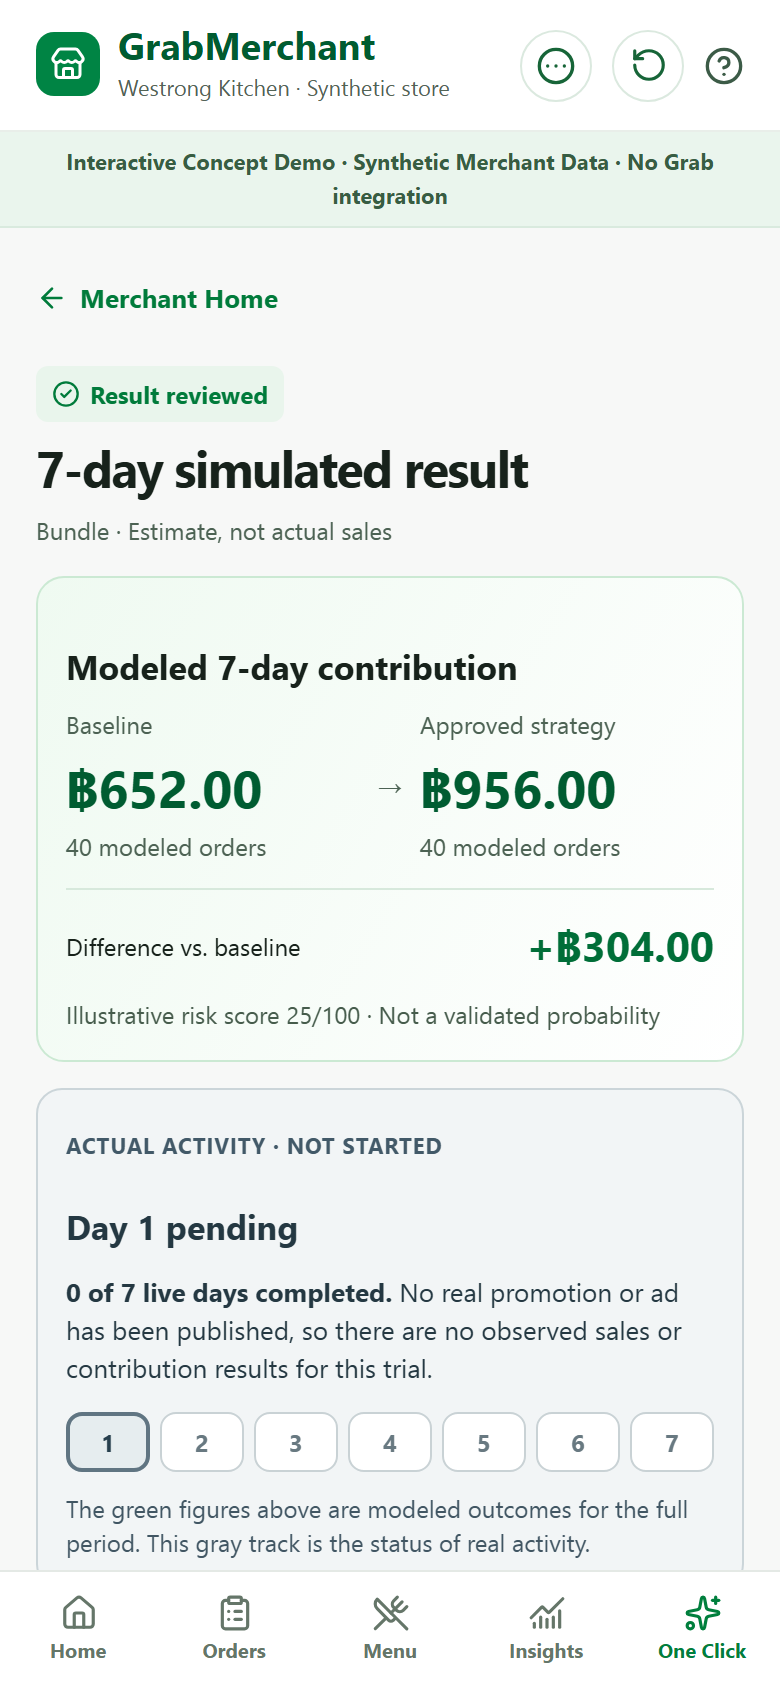
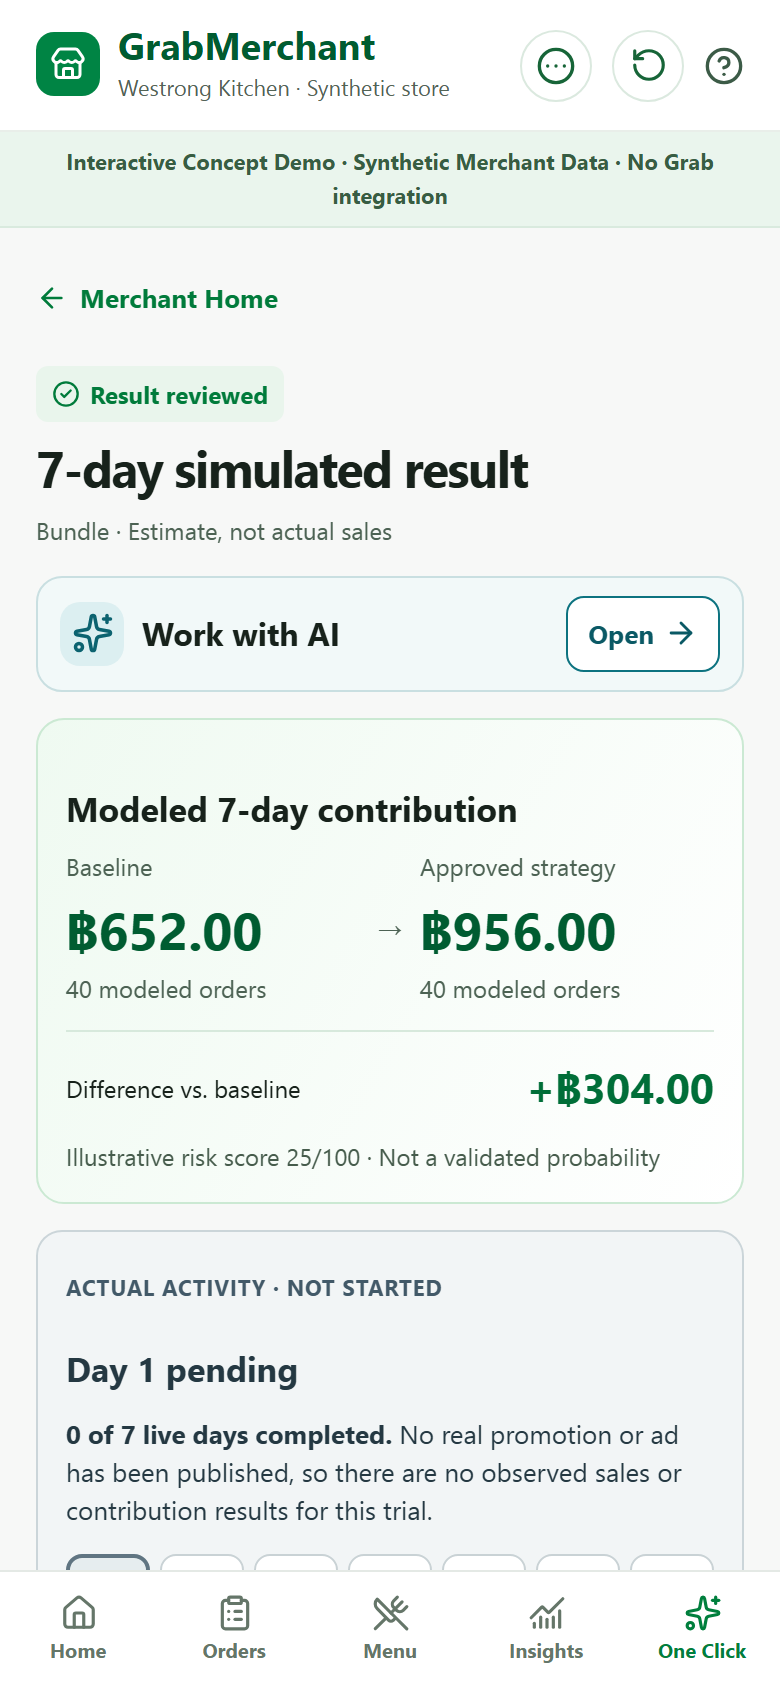
Compact mission AI entry and fit chat to viewport

diff --git a/frontend/components/judge-demo.tsx b/frontend/components/judge-demo.tsx
@@ -95,7 +95,7 @@ export function JudgeDemo() {
 
         {state.view === "details" && <JudgeStrategyDetail item={detail} onBack={() => go("recommendation")} />}
 
-        {state.view === "results" && approved && state.c1.resultReady && <div className="judge-page oneclick-results"><Back onClick={() => go("c1-home")} label="Merchant Home" /><span className="review-badge"><CheckCircle2 size={14} /> {state.c1.reviewed ? "Result reviewed" : "Simulated result ready"}</span><h1>7-day simulated result</h1><p className="subtle">{strategyNames[approved.strategy_id]} · Estimate, not actual sales</p><section className="results-hero"><h2>Modeled 7-day contribution</h2><div className="results-totals"><div><span>Baseline</span><strong>{baht(evaluation.baseline.estimated_7d_contribution)}</strong><small>{evaluation.baseline.estimated_units} modeled orders</small></div><span aria-hidden="true">→</span><div><span>Approved strategy</span><strong>{baht(approved.estimated_7d_contribution)}</strong><small>{approved.estimated_units} modeled orders</small></div></div><div className="results-difference"><span>Difference vs. baseline</span><strong className={`impact-${impactTone(approved.estimated_difference)}`}>{baht(approved.estimated_difference, true)}</strong></div><p>Illustrative risk score {approved.risk_score}/100 · Not a validated probability</p></section><ActualProgress days={7} /><AgentEntry onOpen={() => go("agent")} /><section className="results-card"><h2>What the simulation suggests</h2><p className="results-takeaway">{strategyNames[approved.strategy_id]} models a {baht(approved.estimated_difference, true)} contribution difference over 7 days.</p><p>Modeled orders: {evaluation.baseline.estimated_units} baseline → {approved.estimated_units} with the selected strategy. Customer demand and displaced sales have not been observed.</p><p>Check real costs and demand before any live action. No campaign or promotion was created.</p></section><details className="assumptions-details results-assumptions"><summary>Model assumptions</summary><p>{evaluation.provenance}</p><p>Discount demand lift {Number(evaluation.assumptions.discount_demand_lift) * 100}% and {evaluation.assumptions.advertising_incremental_orders} advertising orders are synthetic assumptions, not validated forecasts.</p></details>{!state.c1.reviewed ? <button type="button" className="primary-button" onClick={() => update(old => ({ ...old, c1: { ...old.c1, reviewed: true } }))}>Mark result as reviewed <Check size={17} /></button> : <div className="reviewed-state"><CheckCircle2 size={18} /> Result review saved</div>}<button type="button" className="judge-text-button" onClick={() => go("home")}>Return to Merchant Home</button></div>}
+        {state.view === "results" && approved && state.c1.resultReady && <div className="judge-page oneclick-results"><Back onClick={() => go("c1-home")} label="Merchant Home" /><span className="review-badge"><CheckCircle2 size={14} /> {state.c1.reviewed ? "Result reviewed" : "Simulated result ready"}</span><h1>7-day simulated result</h1><p className="subtle">{strategyNames[approved.strategy_id]} · Estimate, not actual sales</p><AgentEntry onOpen={() => go("agent")} /><section className="results-hero"><h2>Modeled 7-day contribution</h2><div className="results-totals"><div><span>Baseline</span><strong>{baht(evaluation.baseline.estimated_7d_contribution)}</strong><small>{evaluation.baseline.estimated_units} modeled orders</small></div><span aria-hidden="true">→</span><div><span>Approved strategy</span><strong>{baht(approved.estimated_7d_contribution)}</strong><small>{approved.estimated_units} modeled orders</small></div></div><div className="results-difference"><span>Difference vs. baseline</span><strong className={`impact-${impactTone(approved.estimated_difference)}`}>{baht(approved.estimated_difference, true)}</strong></div><p>Illustrative risk score {approved.risk_score}/100 · Not a validated probability</p></section><ActualProgress days={7} /><section className="results-card"><h2>What the simulation suggests</h2><p className="results-takeaway">{strategyNames[approved.strategy_id]} models a {baht(approved.estimated_difference, true)} contribution difference over 7 days.</p><p>Modeled orders: {evaluation.baseline.estimated_units} baseline → {approved.estimated_units} with the selected strategy. Customer demand and displaced sales have not been observed.</p><p>Check real costs and demand before any live action. No campaign or promotion was created.</p></section><details className="assumptions-details results-assumptions"><summary>Model assumptions</summary><p>{evaluation.provenance}</p><p>Discount demand lift {Number(evaluation.assumptions.discount_demand_lift) * 100}% and {evaluation.assumptions.advertising_incremental_orders} advertising orders are synthetic assumptions, not validated forecasts.</p></details>{!state.c1.reviewed ? <button type="button" className="primary-button" onClick={() => update(old => ({ ...old, c1: { ...old.c1, reviewed: true } }))}>Mark result as reviewed <Check size={17} /></button> : <div className="reviewed-state"><CheckCircle2 size={18} /> Result review saved</div>}<button type="button" className="judge-text-button" onClick={() => go("home")}>Return to Merchant Home</button></div>}
         {state.view === "agent" && approved && <MissionAgentChat facts={{ strategy: strategyNames[approved.strategy_id], contribution: baht(approved.estimated_7d_contribution), difference: baht(approved.estimated_difference, true), risk: approved.risk_score, nextStep: "Check actual costs and demand before considering a live offer." }} onBack={() => go("results")} />}
 
         {state.view === "connections" && <div className="judge-page"><Back onClick={() => go("home")} label="Merchant Home" /><span className="judge-eyebrow">MERCHANT SETTINGS → AI CONNECTIONS</span><h1>AI Connections</h1><p className="judge-lead">Conceptually grant your preferred AI workspace access to selected read-only merchant capabilities.</p><div className="judge-status"><Link2 size={20} /><span><strong>{state.c2.status === "connected" ? "Connected — Simulated" : state.c2.status === "revoked" ? "Access Revoked" : state.c2.scopes.length ? "Permissions Selected" : "Not Connected"}</strong><small>No real AI provider linked</small></span></div><h2>Choose a simulated AI client</h2><div className="judge-client-options">{aiClients.map(client => <button type="button" key={client} className={state.c2.client === client ? "is-active" : ""} aria-pressed={state.c2.client === client} onClick={() => update(old => ({ ...old, c2: { ...old.c2, client, status: "not_connected", grantedScopes: [], asked: false, lastPrompt: "", draftReviewed: false } }))}><ClientIcon client={client} /><span className="judge-client-name">{client}</span><small>Concept option</small></button>)}</div><h2>Read-only permissions</h2><p className="judge-disclosure">Select each capability explicitly. Removing access applies immediately; new permissions need authorization.</p><div className="judge-scope-list">{scopeDefinitions.map(scope => <label key={scope.id}><input type="checkbox" checked={state.c2.scopes.includes(scope.id)} onChange={() => toggleScope(scope.id)} /><span><strong>{scope.name} — Read</strong><small>{scope.detail}</small></span></label>)}</div><button type="button" className="primary-button" disabled={!state.c2.client || state.c2.scopes.length === 0 || state.c2.status === "connected" && sameScopes(state.c2.scopes, state.c2.grantedScopes)} onClick={authorize}>{state.c2.status === "connected" ? "Update authorized permissions" : "Authorize simulated connection"} <ArrowRight size={17} /></button>{state.c2.status === "connected" && <><button type="button" className="secondary-button" onClick={() => go("workspace")}>Open simulated AI workspace <ArrowRight size={17} /></button><button type="button" className="judge-danger-button" onClick={revoke}>Revoke access now</button></>}<p className="judge-disclosure">This is a local browser demonstration. No OAuth, MCP, Grab API, or real ChatGPT/Claude session is used.</p></div>}

diff --git a/frontend/components/mission-tracking.tsx b/frontend/components/mission-tracking.tsx
@@ -45,16 +45,16 @@ export function MissionTracking({ initialMission, comparison, initialOutcome }: 
     catch (cause) { setError(cause instanceof Error ? cause.message : "Could not save the result review."); }
     finally { setBusy(false); }
   }
-  if (showAgent && result) return <div className="page-content tracking-page"><MissionAgentChat facts={{ strategy: result.selected_strategy_id ? strategyNames[result.selected_strategy_id] : "Approved", contribution: baht(result.trial.estimated_contribution), difference: baht(modeledDifference, true), risk: result.modeled_risk_score, nextStep: result.next_step_guidance }} onBack={() => setShowAgent(false)} /></div>;
+  if (showAgent && result) return <div className="page-content tracking-page mission-agent-page"><MissionAgentChat facts={{ strategy: result.selected_strategy_id ? strategyNames[result.selected_strategy_id] : "Approved", contribution: baht(result.trial.estimated_contribution), difference: baht(modeledDifference, true), risk: result.modeled_risk_score, nextStep: result.next_step_guidance }} onBack={() => setShowAgent(false)} /></div>;
   return <div className="page-content tracking-page oneclick-results">
     <Link href="/ai" className="back-link"><ArrowLeft size={16} /> One Click</Link>
     {result ? <>
       <span className="review-badge"><CheckCircle2 size={13} /> {mission.status === "reviewed" ? "Result reviewed" : "Simulated result ready"}</span>
       <h1>{mission.trial_days}-day simulated result</h1>
       <p className="subtle">{result.selected_strategy_id ? strategyNames[result.selected_strategy_id] : "Bundle"} strategy · Estimate, not actual sales</p>
+      <AgentEntry onOpen={() => setShowAgent(true)} />
       <section className="results-hero"><h2>Modeled 7-day contribution</h2><div className="results-totals"><div><span>Baseline</span><strong>{baht(result.baseline.estimated_contribution)}</strong><small>{result.baseline.units} modeled orders</small></div><span aria-hidden="true">→</span><div><span>Approved strategy</span><strong>{baht(result.trial.estimated_contribution)}</strong><small>{result.trial.units} modeled orders</small></div></div><div className="results-comparison-bars" aria-label="Modeled contribution comparison using the same scale"><div><span>Baseline</span><i><b style={{ width: `${Math.max(0, Number(result.baseline.estimated_contribution)) / barMaximum * 100}%` }} /></i></div><div><span>Strategy</span><i><b style={{ width: `${Math.max(0, Number(result.trial.estimated_contribution)) / barMaximum * 100}%` }} /></i></div></div><div className="results-difference"><span>Difference vs. baseline</span><strong>{baht(result.baseline_estimated_difference ?? comparison.contribution_difference, true)}</strong></div>{result.modeled_risk_score !== null && <p>Illustrative risk score {result.modeled_risk_score}/100 · Not a validated probability</p>}</section>
       <ActualProgress days={mission.trial_days} />
-      <AgentEntry onOpen={() => setShowAgent(true)} />
       <section className="results-card"><h2>What the simulation suggests</h2><p className="results-takeaway">In this simulation, {resultStrategyName}&apos;s modeled 7-day contribution differs from baseline by <strong className="results-takeaway-amount">{baht(modeledDifference, true)}</strong>.</p><p>{result.learning_summary}</p><p>Modeled order count {volumeDifference > 0 ? "increased by" : volumeDifference < 0 ? "decreased by" : "changed by"} {Math.abs(volumeDifference)} versus baseline under the approved volume and cost assumptions.</p><p>Actual outcomes remain uncertain because customer demand, costs, and displaced sales have not been observed.</p><h3>Before any real action</h3><p>{result.next_step_guidance}</p></section>
       <details className="assumptions-details results-assumptions"><summary>Assumptions and result details</summary><div className="assumptions-body"><p>Approved model: {result.simulation_version} · Scenario revision {mission.approved_revision}</p>{result.model_assumptions && Object.entries(result.model_assumptions).map(([key, value]) => <p key={key}>{assumptionNames[key] ?? key}: {String(value)}</p>)}<p>Baseline GMV {baht(result.baseline.gmv)} · Strategy GMV {baht(result.trial.gmv)}</p><p>This result is generated immediately from assumptions. No real seven-day period has passed, and no promotion or ad was published.</p></div></details>
       <p className="fine-print">Contribution is not net profit. Actual results depend on demand, costs, and displaced sales.</p>

diff --git a/frontend/app/strategy.css b/frontend/app/strategy.css
@@ -232,22 +232,22 @@
 .actual-day-track { display:grid; grid-template-columns:repeat(7,minmax(0,1fr)); gap:5px; margin:13px 0 0; padding:0; list-style:none; }
 .actual-day-track li { display:grid; place-items:center; min-width:0; min-height:30px; border:1px solid #c9d2d5; border-radius:8px; background:#fff; color:#687981; font-size:12px; font-weight:800; }
 .actual-day-track li.is-pending { border:2px solid #607582; color:#263f4d; background:#e6edef; }
-.mission-agent-entry { display:grid; grid-template-columns:34px minmax(0,1fr); gap:9px; margin-top:13px; padding:14px; border:1px solid #c9dfe1; border-radius:13px; background:#f2f9f9; }
+.mission-agent-entry { display:grid; grid-template-columns:32px minmax(0,1fr) auto; align-items:center; gap:9px; margin:10px 0 13px; padding:9px 11px; border:1px solid #c9dfe1; border-radius:13px; background:#f2f9f9; }
 .mission-agent-mark { display:grid; place-items:center; width:32px; height:32px; border-radius:10px; color:#0c6370; background:#dceff1; }
-.mission-agent-entry h2 { margin:0 0 5px; font-size:17px; font-weight:800; }
-.mission-agent-entry p { margin:0; color:#36555a; font-size:13px; line-height:1.4; }
-.mission-agent-entry small { display:block; margin-top:6px; color:#45616a; font-size:12px; }
-.mission-agent-entry button { grid-column:1/-1; display:flex; align-items:center; justify-content:space-between; min-height:43px; padding:0 11px; border:1px solid #0d7380; border-radius:9px; background:#fff; color:#0a5965; font-size:13px; font-weight:800; cursor:pointer; }
-.mission-agent-chat { padding:18px; }
+.mission-agent-entry h2,.judge-page .mission-agent-entry h2 { margin:0; font-size:16px; font-weight:800; }
+.mission-agent-entry button { display:flex; align-items:center; justify-content:center; gap:5px; min-height:38px; padding:0 10px; border:1px solid #0d7380; border-radius:9px; background:#fff; color:#0a5965; font-size:13px; font-weight:800; cursor:pointer; }
+.mission-agent-page { display:flex; flex-direction:column; height:100%; min-height:0; padding:0; }
+.mission-agent-chat { box-sizing:border-box; display:flex; flex-direction:column; flex:1 1 auto; min-height:0; height:100%; padding:14px 18px 12px; }
 .mission-agent-back { min-height:40px; padding:0; border:0; background:none; color:#096b37; font-size:13px; font-weight:800; cursor:pointer; }
-.mission-agent-kicker { display:flex; align-items:center; gap:6px; margin-top:14px; color:#0c6370; font-size:12px; font-weight:800; }
+.mission-agent-kicker { display:flex; align-items:center; gap:6px; margin-top:8px; color:#0c6370; font-size:12px; font-weight:800; }
 .mission-agent-chat h1 { margin:8px 0; font-size:23px; }
 .mission-agent-disclosure { margin:0; color:#49616a; font-size:12px; line-height:1.45; }
-.mission-agent-messages { display:grid; align-content:start; gap:10px; min-height:190px; margin:17px 0; }
+.mission-agent-messages { display:flex; align-items:flex-start; flex-direction:column; flex:1 1 auto; gap:10px; min-height:0; overflow-y:auto; margin:12px 0; scrollbar-width:thin; }
 .mission-agent-message { max-width:94%; padding:11px 12px; border-radius:12px; background:#e8f5f0; font-size:13px; line-height:1.45; }
-.mission-agent-message.is-merchant { justify-self:end; background:#e5edf5; }
+.mission-agent-message.is-merchant { align-self:flex-end; background:#e5edf5; }
 .mission-agent-message strong { font-size:12px; }
 .mission-agent-message p { margin:4px 0 0; }
+.mission-agent-composer { flex:0 0 auto; padding-top:8px; border-top:1px solid #e0e9e4; }
 .mission-agent-composer label { display:block; margin-bottom:7px; font-size:12px; font-weight:750; }
 .mission-agent-composer > div { display:flex; gap:6px; }
 .mission-agent-composer input { flex:1 1 auto; min-width:0; min-height:44px; padding:9px; border:1px solid #b7c9c1; border-radius:9px; font:inherit; font-size:13px; }

diff --git a/frontend/components/mission-follow-up.tsx b/frontend/components/mission-follow-up.tsx
@@ -1,6 +1,6 @@
 "use client";
 
-import { useState, type FormEvent } from "react";
+import { useEffect, useRef, useState, type FormEvent } from "react";
 import { ArrowRight, Send, Sparkles } from "lucide-react";
 
 type AgentFacts = {
@@ -24,16 +24,18 @@ export function ActualProgress({ days }: { days: number }) {
 export function AgentEntry({ onOpen }: { onOpen: () => void }) {
   return <section className="mission-agent-entry" aria-labelledby="mission-agent-entry-title">
     <span className="mission-agent-mark"><Sparkles size={21} /></span>
-    <div><h2 id="mission-agent-entry-title">Ask MAI about this mission</h2><p>Review the approved assumptions, modeled result, and next steps in an in-app demo chat.</p><small>Simulated agent · No live campaign data</small></div>
-    <button type="button" onClick={onOpen}>Open mission chat <ArrowRight size={17} /></button>
+    <h2 id="mission-agent-entry-title">Work with AI</h2>
+    <button type="button" onClick={onOpen} aria-label="Open mission chat">Open <ArrowRight size={17} /></button>
   </section>;
 }
 
 export function MissionAgentChat({ facts, onBack }: { facts: AgentFacts; onBack: () => void }) {
   const [draft, setDraft] = useState("");
+  const messagesRef = useRef<HTMLDivElement>(null);
   const [messages, setMessages] = useState<{ role: "merchant" | "agent"; text: string }[]>([
     { role: "agent", text: `I can help you review the approved ${facts.strategy} simulation. Its modeled 7-day contribution is ${facts.contribution}, a ${facts.difference} difference from baseline. No real trial has started.` },
   ]);
+  useEffect(() => { messagesRef.current?.scrollTo({ top: messagesRef.current.scrollHeight }); }, [messages.length]);
   function reply(prompt: string) {
     const question = prompt.toLowerCase();
     if (/actual|live|day|started|real|progress|status/.test(question)) return "Actual activity is at Day 1 pending: 0 live days completed. No real promotion or ad has been published, and there are no observed trial results.";
@@ -52,8 +54,8 @@ export function MissionAgentChat({ facts, onBack }: { facts: AgentFacts; onBack:
     <button type="button" className="mission-agent-back" onClick={onBack}>← Simulated result</button>
     <span className="mission-agent-kicker"><Sparkles size={16} /> MAI · IN-APP DEMO AGENT</span>
     <h1 id="mission-agent-title">{facts.strategy} mission chat</h1>
-    <p className="mission-agent-disclosure">Scripted prototype replies grounded in this mission&apos;s approved modeled result. No live AI service or real campaign data is connected.</p>
-    <div className="mission-agent-messages" aria-live="polite">{messages.map((message, index) => <div key={index} className={`mission-agent-message is-${message.role}`}><strong>{message.role === "agent" ? "MAI" : "You"}</strong><p>{message.text}</p></div>)}</div>
+    <p className="mission-agent-disclosure">Demo chat · No live AI or campaign data.</p>
+    <div ref={messagesRef} className="mission-agent-messages" aria-live="polite">{messages.map((message, index) => <div key={index} className={`mission-agent-message is-${message.role}`}><strong>{message.role === "agent" ? "MAI" : "You"}</strong><p>{message.text}</p></div>)}</div>
     <form className="mission-agent-composer" onSubmit={send}><label htmlFor="mission-agent-prompt">Message MAI about this mission</label><div><input id="mission-agent-prompt" value={draft} onChange={event => setDraft(event.target.value.slice(0, 500))} placeholder="Ask about status, risk, or next steps" maxLength={500} /><button type="submit" disabled={!draft.trim()} aria-label="Send message"><Send size={17} /></button></div></form>
   </section>;
 }

diff --git a/frontend/README.md b/frontend/README.md
@@ -2,7 +2,7 @@
 
 ## 2C Interactive Judge Demo (standalone)
 
-The public judge build opens at `/` and contains two independent browser-only journeys: **C1 One Click** (discover → select → compare/details → consent → approve → simulate → review) and **C2 Connector** (choose a simulated client → grant read-only scopes → ask a prepared question → see only authorized synthetic results → review a draft → revoke). The merchant can reset either journey with the reset control in the header. State is scoped to the current browser tab via `sessionStorage` and survives refresh.
+The public judge build opens at `/` and contains two independent browser-only journeys: **C1 One Click** (discover → compare/details → consent → confirm → prepared simulated result → optional mission chat → review) and **C2 Connector** (choose a simulated client → grant read-only scopes → ask a prepared question → see only authorized synthetic results → review a draft → revoke). The merchant can reset either journey with the reset control in the header. State is scoped to the current browser tab via `sessionStorage` and survives refresh.
 
 The judge build uses [`demo/fixtures/snapshot.json`](demo/fixtures/snapshot.json), exported from the deterministic Westrong Kitchen backend seed dated 2026-11-07. Baseline contribution is ฿652.00 for 40 orders. Bundle, Discount, and Advertising results are ฿956.00 / +฿304.00 / risk 25, ฿715.00 / +฿63.00 / risk 29, and ฿747.60 / +฿95.60 / risk 35, respectively. The fixture is fixed synthetic data, so judges cannot edit financial assumptions in the standalone build. The full-stack application below retains editable assumptions and backend recalculation.
 
@@ -18,13 +18,15 @@ $env:NEXT_PUBLIC_GRABSPARK_JUDGE_DEMO = '1'
 npx next start -p 3002 -H 127.0.0.1
 ```
 
+Stop the running `next start` process before rebuilding, then start it again. A rebuild changes static asset names; an older running server can otherwise serve HTML that points to CSS files it cannot load.
+
 For Vercel, create a Next.js project with **Root Directory `frontend`**. [`vercel.json`](vercel.json) runs the dedicated judge build. Vercel's runtime flag selects the browser-only landing page; no database URL, demo session, or external API credentials are needed. The existing FastAPI/PostgreSQL application remains available for local full-stack development. Deployment to a public URL requires connecting this source directory or repository to a Vercel project; this README does not imply a live deployment has already occurred.
 
 Run `node scripts/judge-demo-e2e.mjs` against the local production preview. It tests all three C1 selections and results, mandatory consent, refresh and reset, C2 permission gating and revocation, browser errors, asset loading, and responsive widths of 320, 375, 390, 430, 768, 1024, and 1440px. Screenshots are written to [`../docs/screenshots/judge-demo/`](../docs/screenshots/judge-demo/).
 
 ---
 
-Current Phase 3 One Click flow: Home recommendation → compact three-strategy popup with locally stored AI-generated concept previews → one informed simulated-trial approval → backend processing → Results & Learning → Reviewed. See the [UX and visual refinement report](../docs/phase3-ux-visual-refinement.md) for screenshots, assets, test results, and limitations. The popup previews are concept artwork; prices and financial figures remain backend-driven UI text.
+Current Phase 3 One Click flow: Home recommendation → compact three-strategy popup with locally stored AI-generated concept previews → one informed confirmation → prepared simulated result with separate actual-activity status and optional MAI demo chat → Reviewed. See the [UX and visual refinement report](../docs/phase3-ux-visual-refinement.md) for screenshots, assets, test results, and limitations. The popup previews are concept artwork; prices and financial figures remain backend-driven UI text.
 
 The disposable preview at port 3001 shows **Reset demo account** after opening the Profile menu in the app header. It resets all sample account data in the local `grabspark_a1_visual` database and returns to the Home recommendation popup. The preview launcher sets `GRABSPARK_DEMO_RESET_ENABLED=1`; the main app does not show this control. The backend independently verifies the exact preview database, loopback database host, local mode, seeded merchant owner, and normal session/CSRF checks before reset. The reset is repeatable and never publishes a campaign.
 
